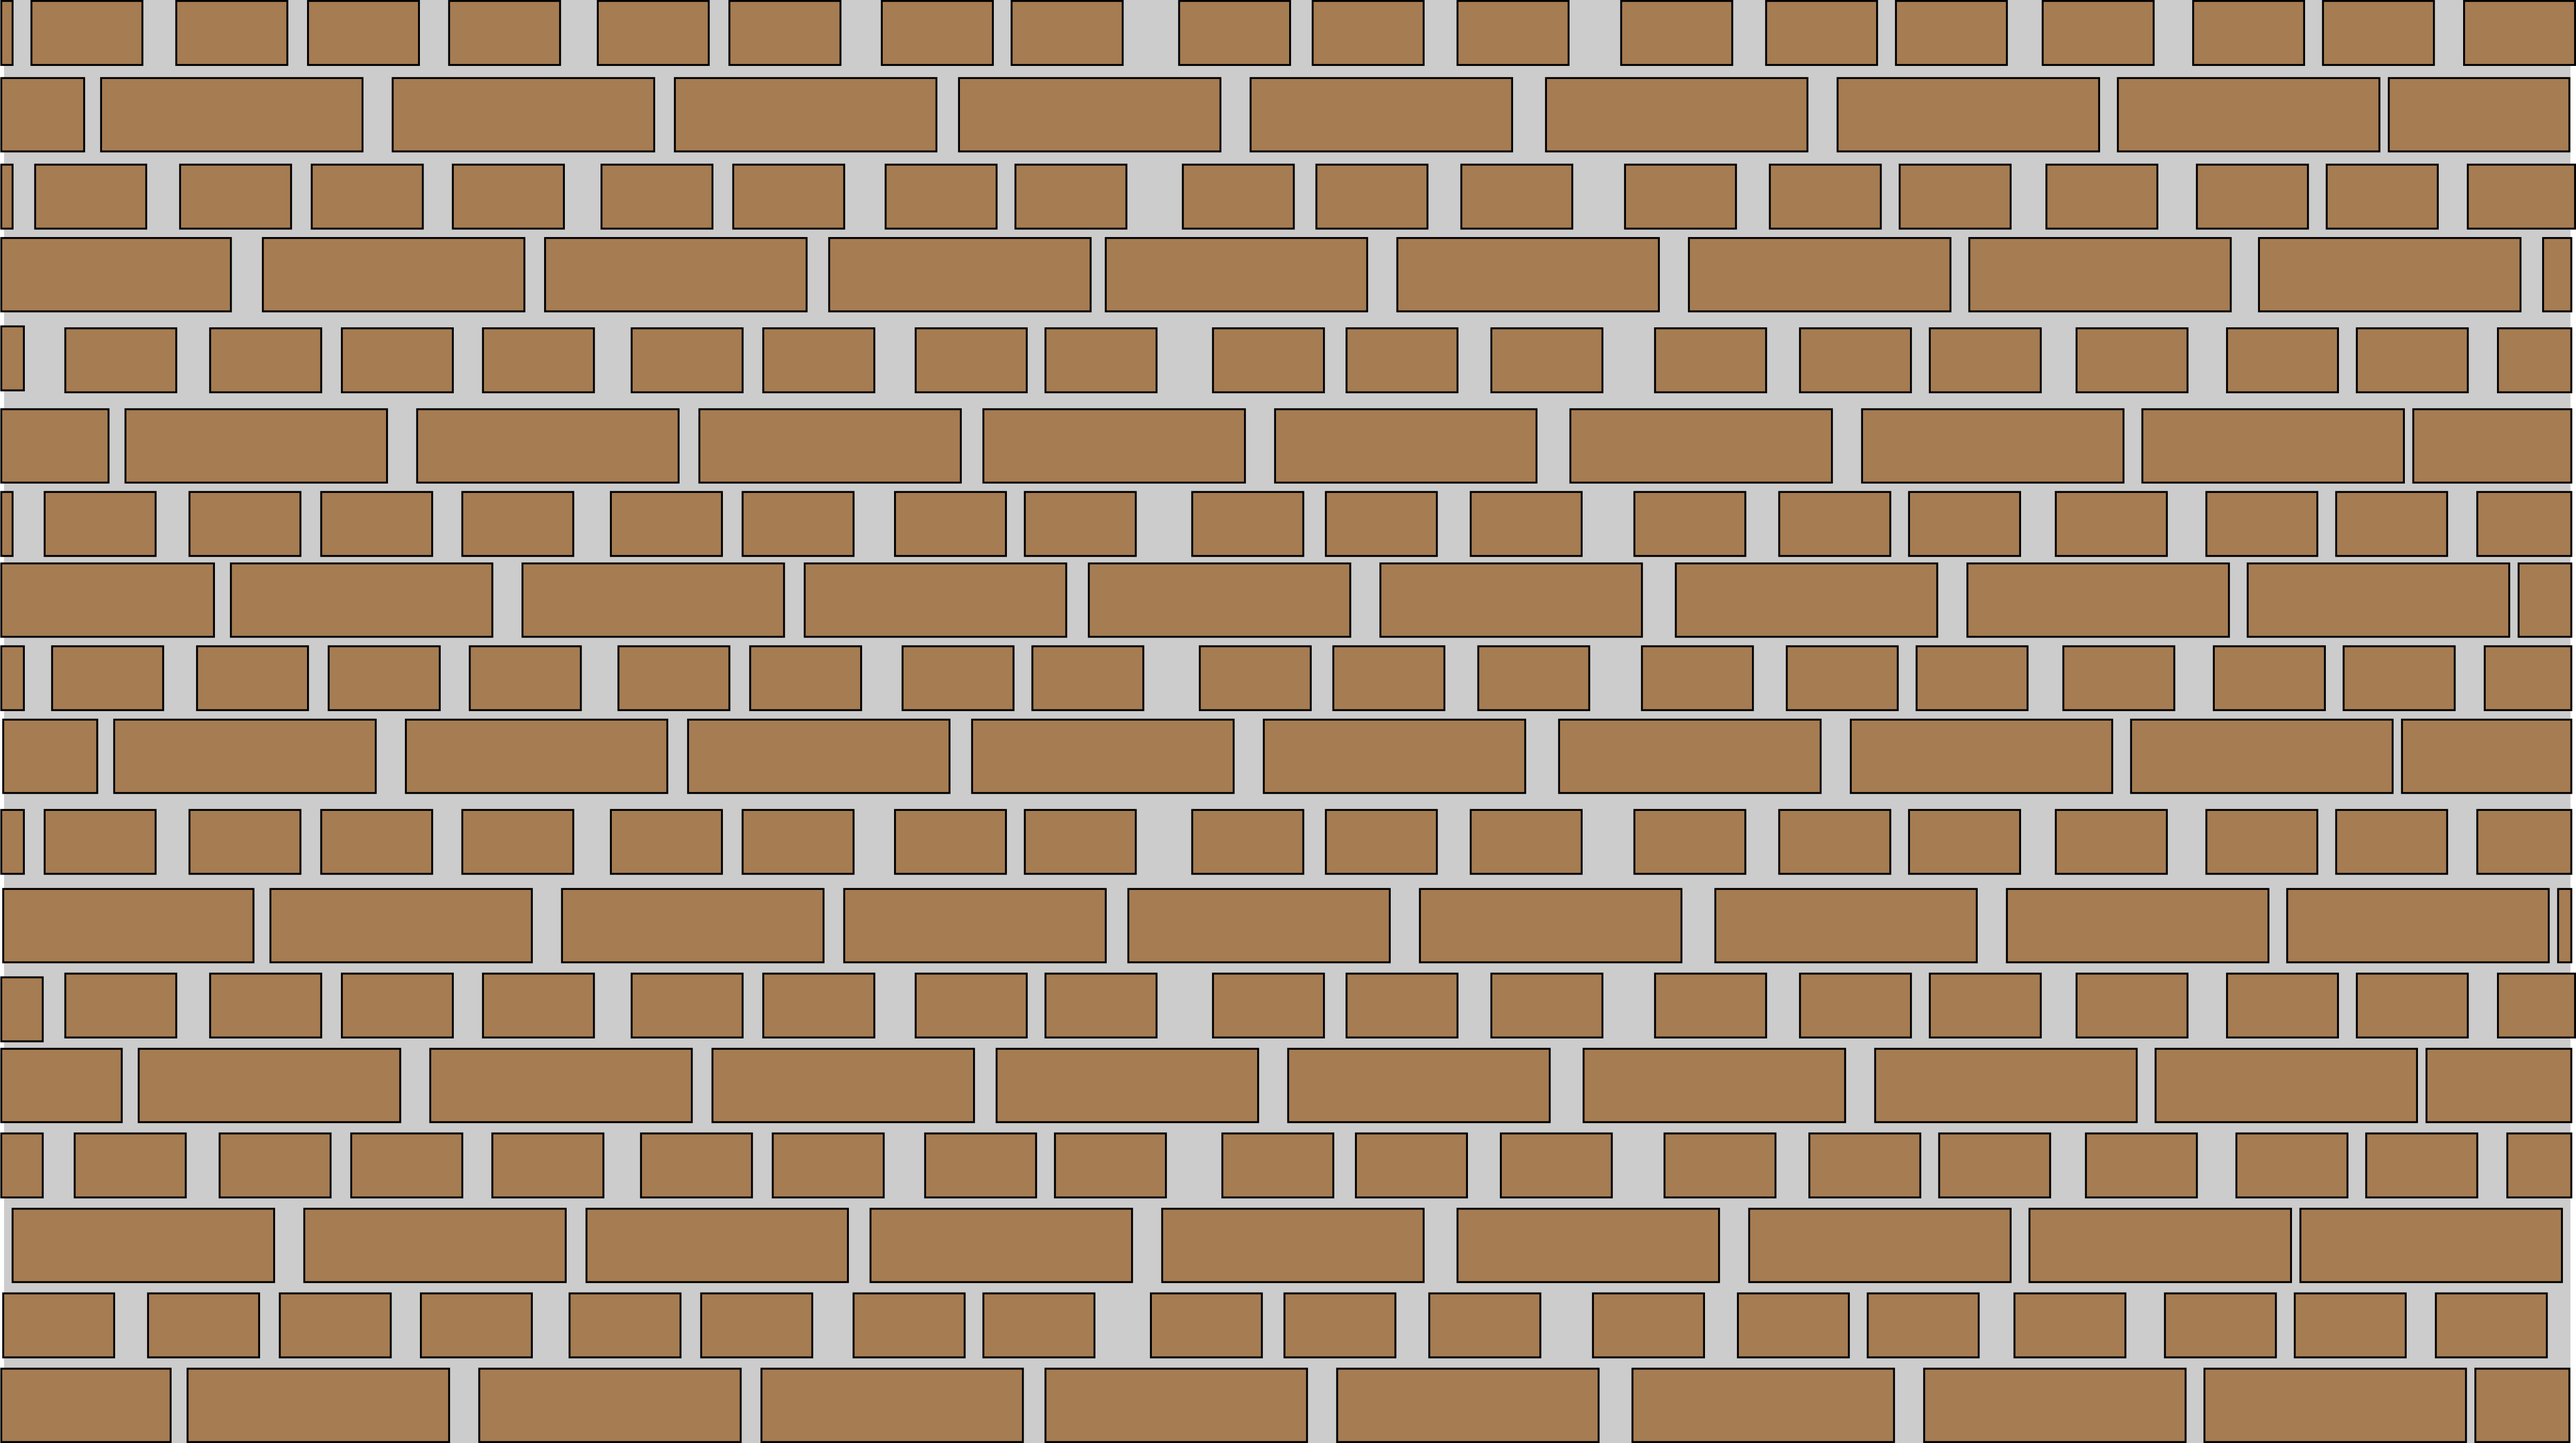
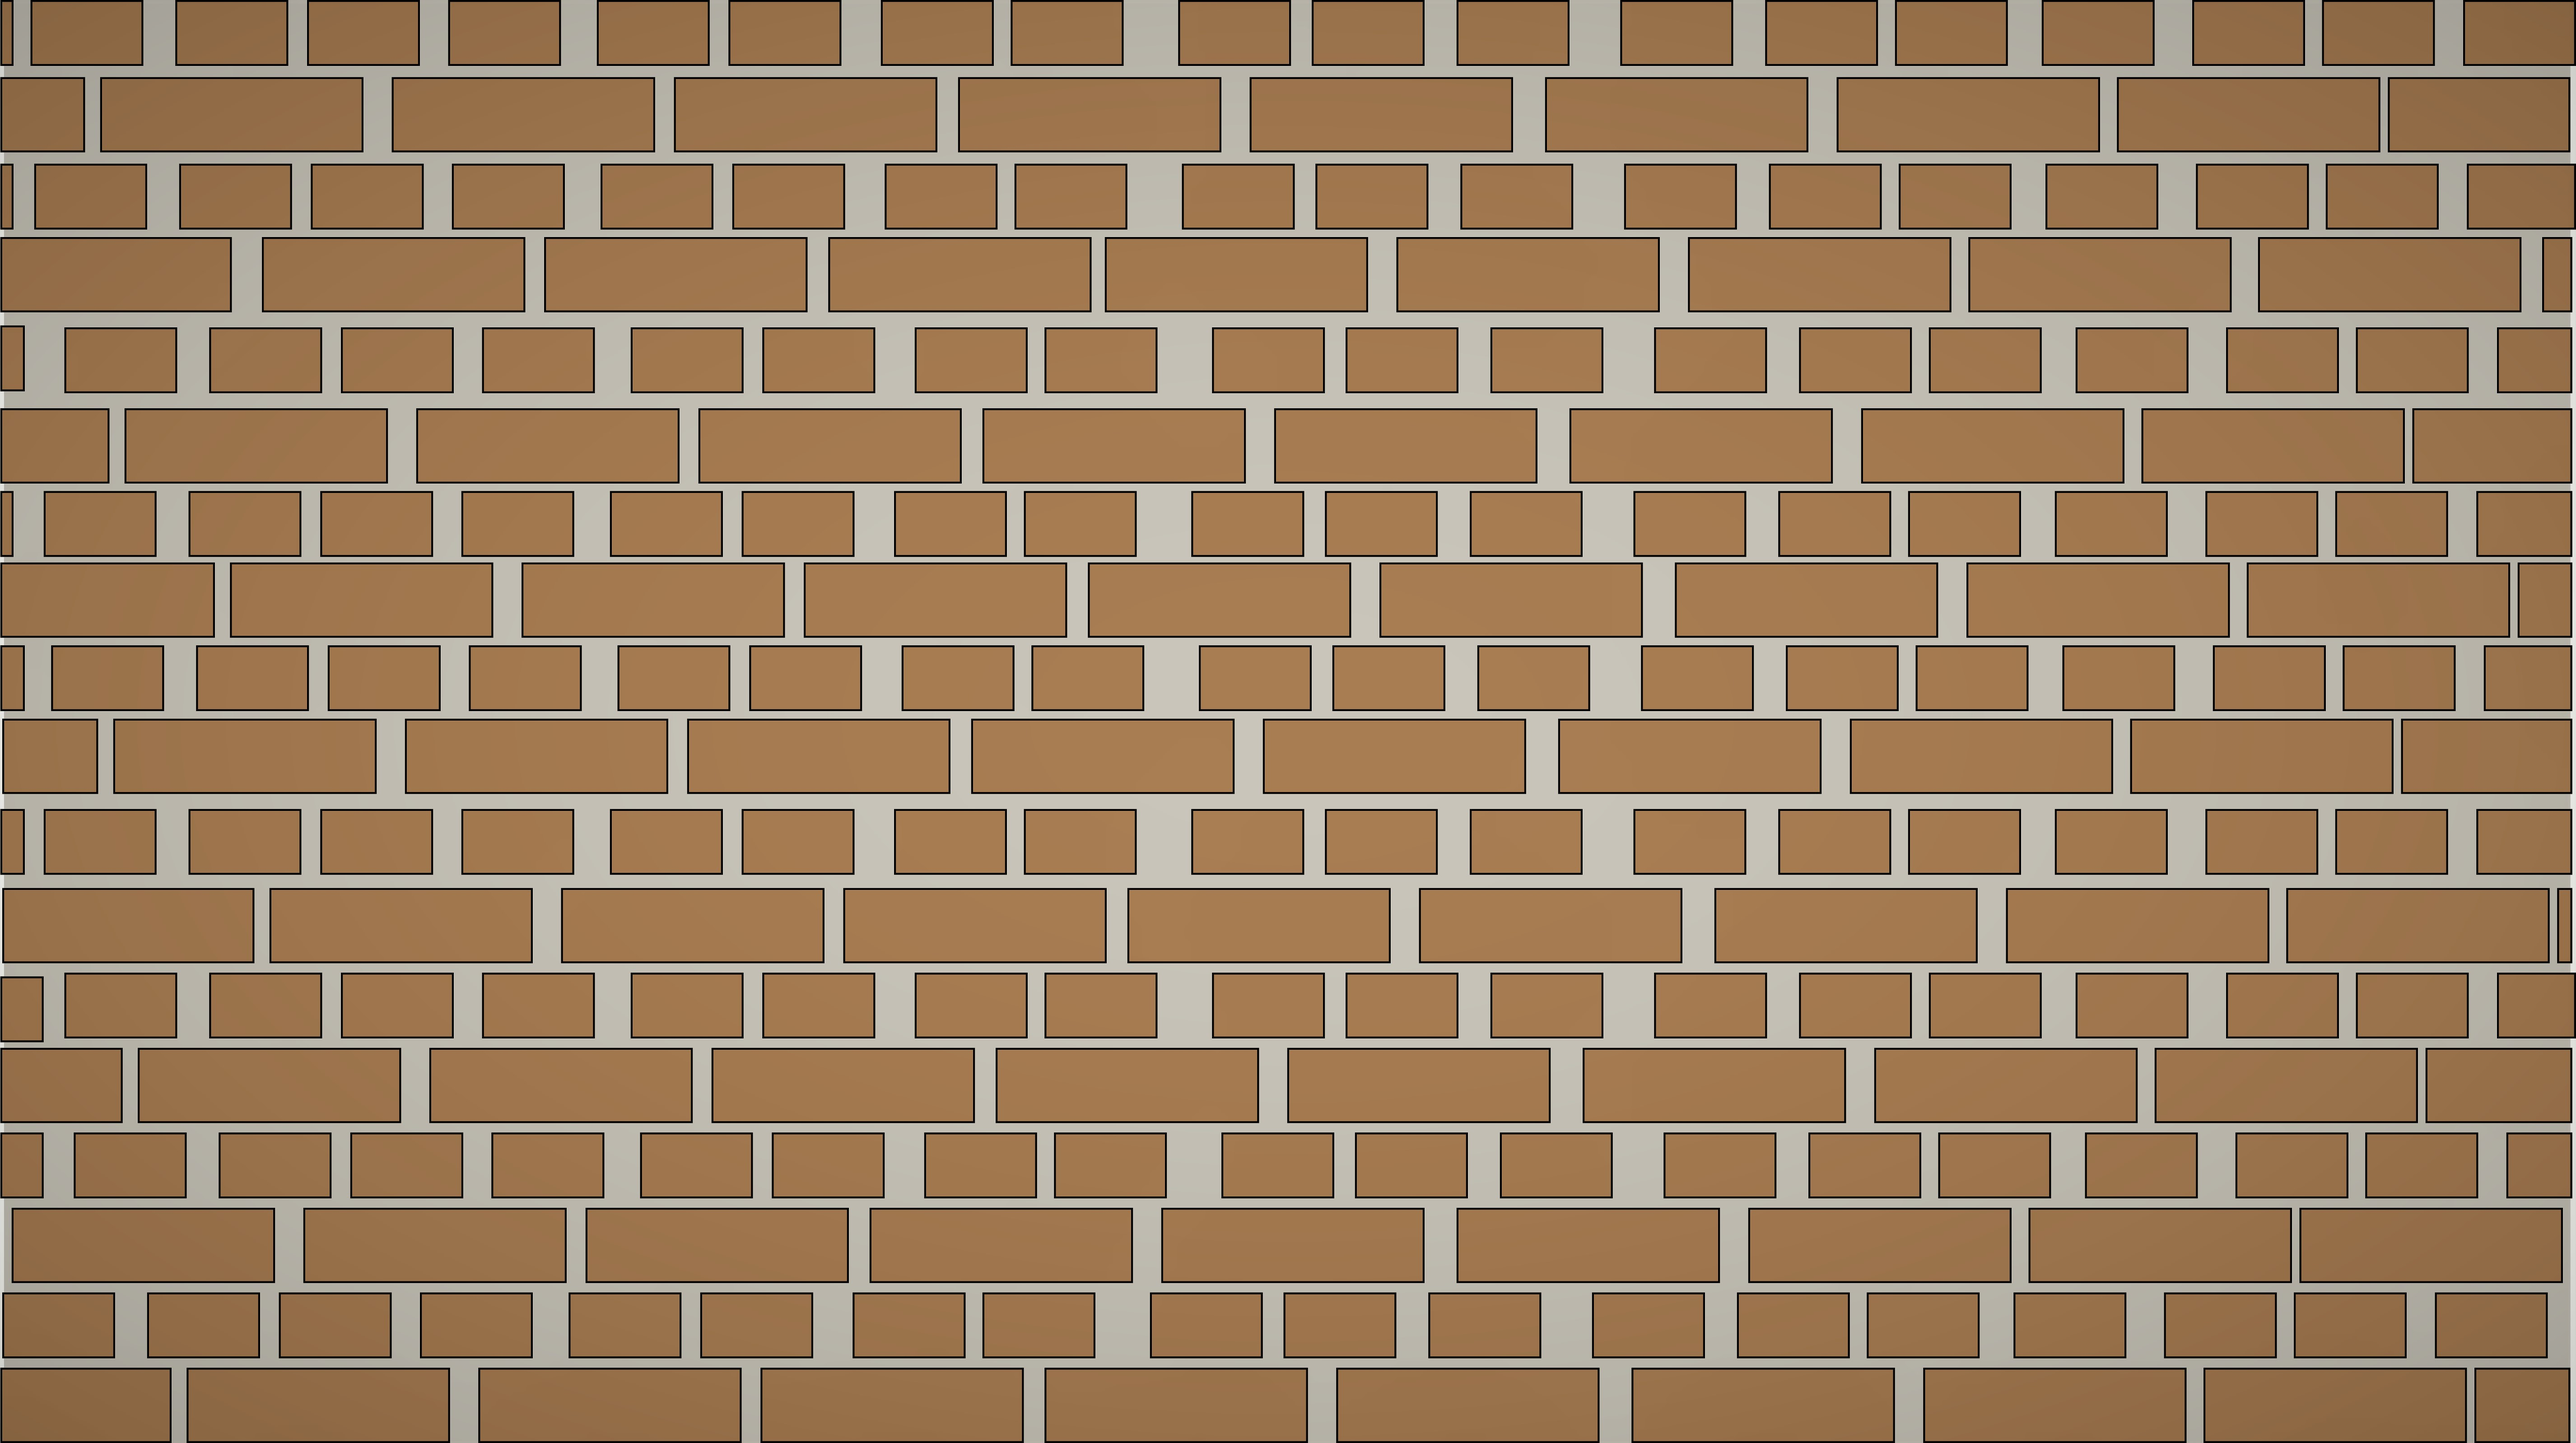
simple interactivity

Changed region(s): [[0.0, 0.0, 1.0, 1.0]]

diff --git a/scratchpad/interactivity8.html b/scratchpad/interactivity8.html
@@ -9,13 +9,11 @@
 </head>
 
 <body>
-  <h1>But you did find doors. Wonder where they came from? Pick a door, I guess?</h1>
-  <img src="images/brick_wall7.jpg" usemap="#image-map" width="1250" height="515">
+  <h1>NOW GET IN.</h1>
+  <img src="images/brick_wall8.jpg" usemap="#image-map" width="1250" height="515">
 
   <map name="image-map">
-      <area target="_self" alt="" title="" href="" coords="169,937,1454,3181" shape="rect">
-      <area target="_self" alt="" title="" href="" coords="2215,942,3490,3191" shape="rect">
-      <area target="_self" alt="" title="" href="" coords="4292,942,5572,3186" shape="rect">
+      <area target="_self" alt="" title="" href="interactivity9.html" coords="22,4,5693,3180" shape="rect">
   </map>
 </body>
 

diff --git a/scratchpad/interactivity7.html b/scratchpad/interactivity7.html
@@ -9,12 +9,12 @@
 </head>
 
 <body>
-  <h1>Oh, you're back here again. OOF.</h1>
-  <img src="images/brick_wall.jpg" usemap="#image-map" width="1250" height="515">
+  <h1>Oh wow, you found a door. Wonder how long it's been in the wall? I guess click that?</h1>
+  <img src="images/brick_wall7.jpg" usemap="#image-map" width="1250" height="515">
 
-<map name="image-map">
-    <area target="_self" alt="" title="" href="interactivity8.html" coords="22,4,5693,3180" shape="rect">
-</map>
+  <map name="image-map">
+      <area target="_self" alt="" title="" href="interactivity8.html" coords="22,4,5693,3180" shape="rect">
+  </map>
 </body>
 
 </html>

diff --git a/scratchpad/interactivity9.html b/scratchpad/interactivity9.html
@@ -1,0 +1,14 @@
+<!DOCTYPE html>
+<html lang="en" dir="ltr">
+  <head>
+    <meta charset="utf-8">
+    <title>end</title>
+    <link href="https://fonts.googleapis.com/css?family=Cute+Font" rel="stylesheet">
+    <link rel="stylesheet" type="text/css" href="interactivity.css">
+  </head>
+  <body>
+    <img src="images/horrorgirl.gif" alt="" width="1250" height="600">
+    <img src="images/re4dead.gif" alt="" width="1250" height="600">
+    <a href="interactivity.html">Wanna start over? Maybe not.</a>
+  </body>
+</html>

diff --git a/scratchpad/interactivity6.html b/scratchpad/interactivity6.html
@@ -9,7 +9,7 @@
 </head>
 
 <body>
-  <h1>You're getting warmer... Promise, this'll be the last time you click.</h1>
+  <h1>You're getting warmer...</h1>
   <img src="images/brick_wall6.jpg" usemap="#image-map" width="1250" height="515">
 
 <map name="image-map">

diff --git a/scratchpad/interactivity.css b/scratchpad/interactivity.css
@@ -4,3 +4,16 @@ h1 {
   text-align: center;
   font-family: 'Cute Font', cursive;
 }
+
+body {
+  background-color: black;
+}
+
+h1 {
+  color: red;
+}
+
+a {
+  font-family: 'Cute Font', cursive;
+  color: red
+}
